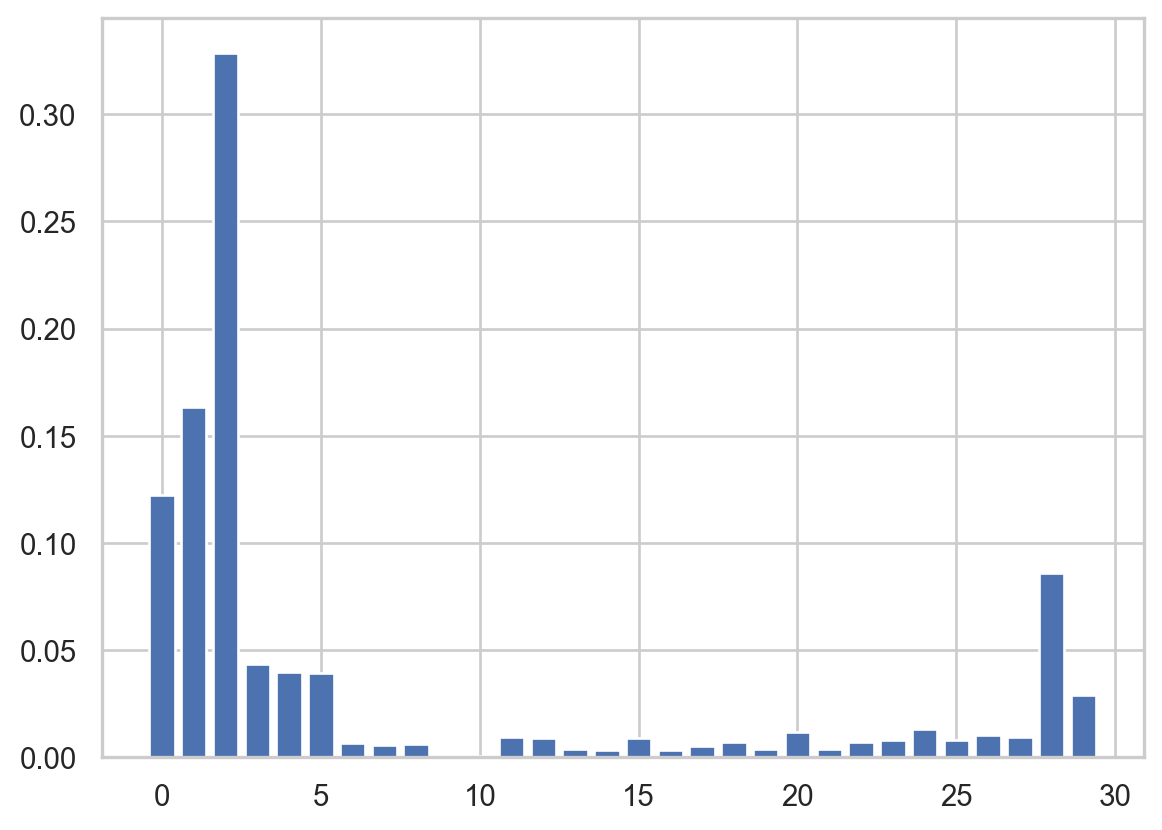
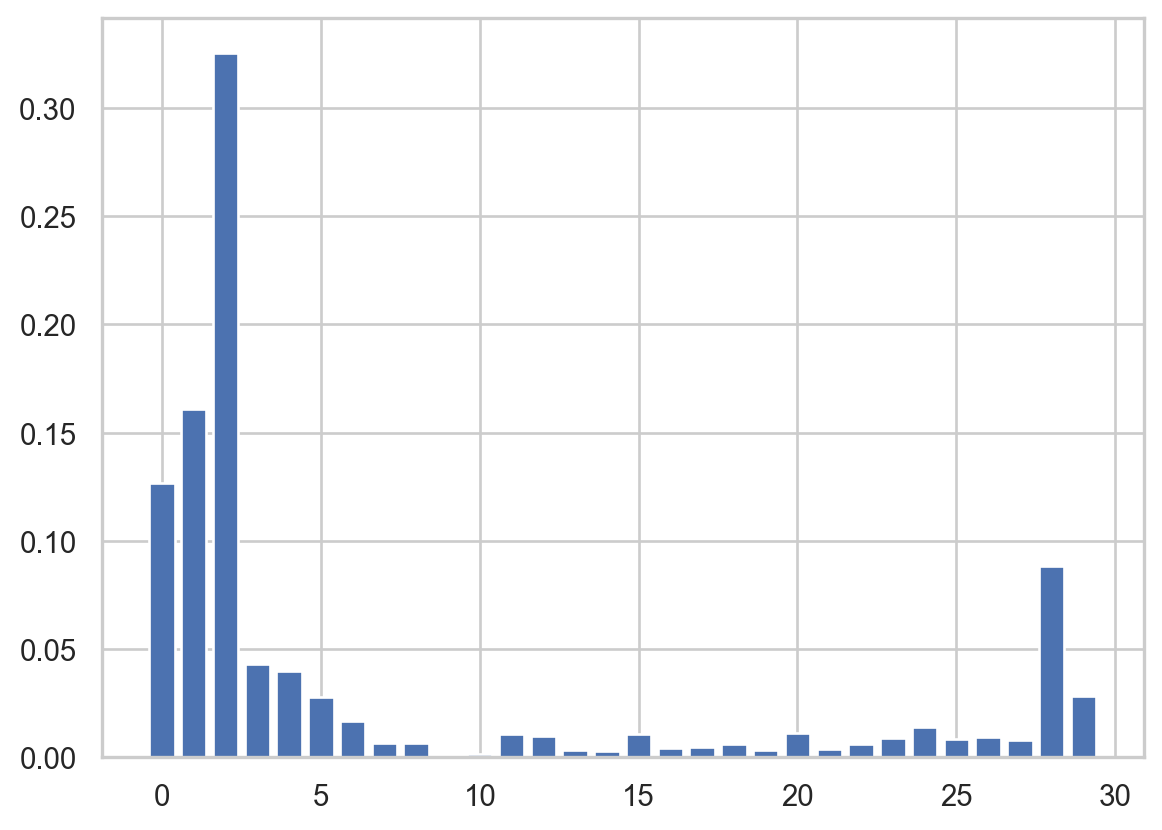
conclusion

diff --git a/DATASET and QMD FINAL/Summary.html b/DATASET and QMD FINAL/Summary.html
@@ -126,6 +126,7 @@ ul.task-list li input[type="checkbox"] {
   <li><a href="#roc--auc-curve" id="toc-roc--auc-curve" class="nav-link" data-scroll-target="#roc--auc-curve"><span class="toc-section-number">17</span>  ROC -AUC Curve</a></li>
   <li><a href="#precision-recall-curve" id="toc-precision-recall-curve" class="nav-link" data-scroll-target="#precision-recall-curve"><span class="toc-section-number">18</span>  Precision Recall Curve</a></li>
   <li><a href="#summary" id="toc-summary" class="nav-link" data-scroll-target="#summary"><span class="toc-section-number">19</span>  Summary</a></li>
+  <li><a href="#conclusion" id="toc-conclusion" class="nav-link" data-scroll-target="#conclusion"><span class="toc-section-number">20</span>  Conclusion</a></li>
   </ul>
 </nav>
 </div>
@@ -435,6 +436,7 @@ dtype: float64</code></pre>
 </div>
 </div>
 <p>Checking between pdays and previous as well</p>
+<p>Here as we can see from the t- test, t</p>
 <ol start="13" type="1">
 <li><ul>
 <li>pdays: number of days that passed by after the client was last contacted from a previous campaign (numeric; 999 means client was not previously contacted)</li>
@@ -612,8 +614,10 @@ dtype: float64</code></pre>
 <p>Applying model with selected features</p>
 <div class="cell" data-execution_count="35">
 <div class="cell-output cell-output-stdout">
-<pre><code>Accuracy for training set 0.8905146019783325
-Accuracy for testing set 0.8905146019783325
+<pre><code>Accuracy for training set 0.8905146019783325</code></pre>
+</div>
+<div class="cell-output cell-output-stdout">
+<pre><code>Accuracy for testing set 0.8905146019783325
 Confusion matrix 
 [[29481   547]
  [ 3172   768]]
@@ -654,7 +658,7 @@ weighted avg       0.88      0.82      0.84     33968
 </div>
 </div>
 <p>Here, important features are * Housing * Loan * Job * Education * Marital Status We also added the important features from unbalaced dataset * Duration * Age * Month * Balance</p>
-<p>Here even though the precision and recall have improved, and accuracy has dropped down, but the important relationships are lost since the training data now is artificially generated datapoints. We will try to find the optimal cut-off value for originally dataset and compare it with the balance model.</p>
+<p>Here even though the precision and recall have improved, and accuracy has dropped down, but the important relationships are lost since the training data now is artificially generated datapoints. We will try to find the optimal cut-off value for original dataset and compare it with the model for balanced data.</p>
 <section id="deciding-cut-off-value-for-logistic-regression---unbalance" class="level3" data-number="10.0.1">
 <h3 data-number="10.0.1" class="anchored" data-anchor-id="deciding-cut-off-value-for-logistic-regression---unbalance"><span class="header-section-number">10.0.1</span> Deciding cut off value for logistic regression - Unbalance</h3>
 <p>But to have good values for cut-off we would try to find a cutoff where the precision and recall values are decent</p>
@@ -703,19 +707,21 @@ weighted avg       0.88      0.88      0.88     33968
 <h2 data-number="11.1" class="anchored" data-anchor-id="feature-selection"><span class="header-section-number">11.1</span> Feature Selection</h2>
 <div class="cell" data-execution_count="38">
 <div class="cell-output cell-output-stdout">
-<pre><code>Feature 0 variable age score 0.12
+<pre><code>Feature 0 variable age score 0.13
 Feature 1 variable balance score 0.16
 Feature 2 variable duration score 0.33
 Feature 3 variable campaign score 0.04
 Feature 4 variable previous score 0.04
-Feature 5 variable housing_no score 0.04
+Feature 5 variable housing_no score 0.03
+Feature 6 variable housing_yes score 0.02
+Feature 11 variable job_admin. score 0.01
+Feature 15 variable job_management score 0.01
 Feature 20 variable job_technician score 0.01
 Feature 24 variable education_tertiary score 0.01
-Feature 26 variable marital_married score 0.01
 Feature 28 variable sin_month score 0.09
 Feature 29 variable cos_month score 0.03
 Important features from decision treee are : 
-['age', 'balance', 'duration', 'campaign', 'previous', 'housing_no', 'job_technician', 'education_tertiary', 'marital_married', 'sin_month', 'cos_month']</code></pre>
+['age', 'balance', 'duration', 'campaign', 'previous', 'housing_no', 'housing_yes', 'job_admin.', 'job_management', 'job_technician', 'education_tertiary', 'sin_month', 'cos_month']</code></pre>
 </div>
 <div class="cell-output cell-output-display">
 <p><img src="Summary_files/figure-html/cell-39-output-2.png" width="581" height="415"></p>
@@ -745,23 +751,23 @@ Important features from decision treee are :
 </div>
 <div class="cell-output cell-output-stdout">
 <pre><code>Best parameters from Grid Search CV : 
-{'criterion': 'gini', 'max_depth': 8, 'max_features': 0.6, 'splitter': 'best'}</code></pre>
+{'criterion': 'entropy', 'max_depth': 6, 'max_features': 0.8, 'splitter': 'best'}</code></pre>
 </div>
 </div>
 <p>Training model based on the parameters we got from Grid SearchCV.</p>
 <div class="cell" data-execution_count="40">
 <div class="cell-output cell-output-stdout">
-<pre><code>0.9086198775317946
-[[28801  1227]
- [ 1877  2063]]
+<pre><code>0.9091792275082431
+[[29038   990]
+ [ 2095  1845]]
               precision    recall  f1-score   support
 
-           0       0.94      0.96      0.95     30028
-           1       0.63      0.52      0.57      3940
+           0       0.93      0.97      0.95     30028
+           1       0.65      0.47      0.54      3940
 
     accuracy                           0.91     33968
-   macro avg       0.78      0.74      0.76     33968
-weighted avg       0.90      0.91      0.91     33968
+   macro avg       0.79      0.72      0.75     33968
+weighted avg       0.90      0.91      0.90     33968
 </code></pre>
 </div>
 </div>
@@ -790,7 +796,7 @@ weighted avg       0.90      0.91      0.91     33968
 <pre><code>Fitting 3 folds for each of 32 candidates, totalling 96 fits</code></pre>
 </div>
 <div class="cell-output cell-output-display" data-execution_count="41">
-<pre><code>{'bootstrap': True, 'max_depth': 110, 'max_features': 3, 'n_estimators': 300}</code></pre>
+<pre><code>{'bootstrap': True, 'max_depth': 100, 'max_features': 3, 'n_estimators': 300}</code></pre>
 </div>
 </div>
 <div class="cell" data-execution_count="43">
@@ -821,14 +827,14 @@ weighted avg       1.00      1.00      1.00     33968
  'Mean Training Recall': 1.0,
  'Training F1 scores': array([1., 1., 1., 1., 1.]),
  'Mean Training F1 Score': 1.0,
- 'Validation Accuracy scores': array([0.89917574, 0.90005888, 0.90020606, 0.90122185, 0.89562785]),
- 'Mean Validation Accuracy': 89.92580762348608,
- 'Validation Precision scores': array([0.60078278, 0.61377871, 0.61410788, 0.62689805, 0.59250585]),
- 'Mean Validation Precision': 0.6096146541684841,
- 'Validation Recall scores': array([0.38959391, 0.37309645, 0.37563452, 0.36675127, 0.32106599]),
- 'Mean Validation Recall': 0.36522842639593905,
- 'Validation F1 scores': array([0.47267129, 0.4640884 , 0.46614173, 0.46277022, 0.41646091]),
- 'Mean Validation F1 Score': 0.4564265074401127}</code></pre>
+ 'Validation Accuracy scores': array([0.89932293, 0.90079482, 0.90094201, 0.90122185, 0.89577506]),
+ 'Mean Validation Accuracy': 89.96113334385805,
+ 'Validation Precision scores': array([0.6023622 , 0.61728395, 0.61616162, 0.62473348, 0.59090909]),
+ 'Mean Validation Precision': 0.6102900675784289,
+ 'Validation Recall scores': array([0.38832487, 0.38071066, 0.38705584, 0.37182741, 0.32994924]),
+ 'Mean Validation Recall': 0.3715736040609137,
+ 'Validation F1 scores': array([0.47222222, 0.47095761, 0.47544817, 0.46618934, 0.42345277]),
+ 'Mean Validation F1 Score': 0.46165402256394605}</code></pre>
 </div>
 </div>
 <p>After applying cross validation, we are getting some what real estimates.</p>
@@ -909,6 +915,7 @@ weighted avg       0.86      0.88      0.87     33968
 </section>
 <section id="knn" class="level1" data-number="16">
 <h1 data-number="16"><span class="header-section-number">16</span> KNN</h1>
+<p>We will look into precision and accuracy curve for the optimal value of k.</p>
 <div class="cell" data-execution_count="49">
 <div class="cell-output cell-output-stdout">
 <pre><code>Maximum accuracy:- 1.0 at K = 0</code></pre>
@@ -925,7 +932,7 @@ weighted avg       0.86      0.88      0.87     33968
 <p><img src="Summary_files/figure-html/cell-51-output-2.png" width="593" height="455"></p>
 </div>
 </div>
-<p>Based on the above plot, optimal k value is 3</p>
+<p>Based on the above plot, optimal k value is 3, with maximum f1 score of 0.64.</p>
 <div class="cell" data-execution_count="51">
 <div class="cell-output cell-output-stdout">
 <pre><code>Train set accuracy 0.9294630240226095
@@ -970,7 +977,7 @@ weighted avg       0.92      0.93      0.92     33968
 </div>
 </div>
 </div>
-<p>As per the ROC Curve and Precision Recall curve, Random Forest Classifier is performing best. Second best is KNN.</p>
+<p>As per the ROC Curve and Precision Recall curve, Random Forest Classifier is performing best. Second best is KNN. Since we have unrealistic results from Random Forest, we would suggest using KNN for our model.</p>
 </section>
 <section id="summary" class="level1" data-number="19">
 <h1 data-number="19"><span class="header-section-number">19</span> Summary</h1>
@@ -1040,6 +1047,18 @@ weighted avg       0.92      0.93      0.92     33968
 </table>
 </div>
 <p>See <a href="#tbl-letters">Table&nbsp;1</a>.</p>
+</section>
+<section id="conclusion" class="level1" data-number="20">
+<h1 data-number="20"><span class="header-section-number">20</span> Conclusion</h1>
+<p>Our model would be beneficial in the following ways :</p>
+<ul>
+<li><p>For target marketing for bank campaigns, or in other events. For example based on the customer’s job, age and loan history the model would can easily predict whether the customer is going to subscribe to the term deposit or not. So out of the million people, we can easily shortlist people based on our model and spend the time on them so as to improve efficiency.</p></li>
+<li><p>Improving buissness effficiency of banks. Since using the eda or model we can easily check the subscription insights, it would be very helpful for banks to improve their stratergies. For example, based on the monthly subscription rates, if banks are deciding the campaign promotion time, it can improve there efficiency.</p></li>
+<li><p>Since, we have month as a input factor in our model, and all other values are static, we can even find the best month to contact customer based on the predicted probability of the customer. As there can be a relation between the job type and the month they are subscribing or their fluctuating balance and age. This can be very useful in finding the best time to contact.</p></li>
+<li><p>Based on the model, since the number of contact is playing a major role, if we have the optimal time to contact them, we can restrict our calls to less than 5 and find a better turnover.</p></li>
+<li><p>We didn’t see any relation with the social and economic factors here, but if we had the data for multiple years, there was a possibility of finding a relation. Our model can accomodate these factors as well, and if trained by accomodating these factors as well, this can be helpful for banks in finding the proper time for there campaign.</p></li>
+</ul>
+<p>Hence, analyzing this kind of marketing dataset has given us valuable insight into how we can tweak our model to give buisness insights as well as customer insights to improve subscription of term deposits.</p>
 </section>
 
 </main>
